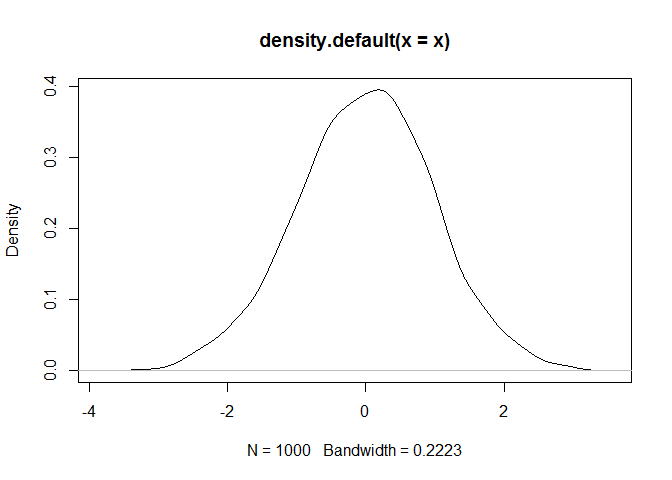
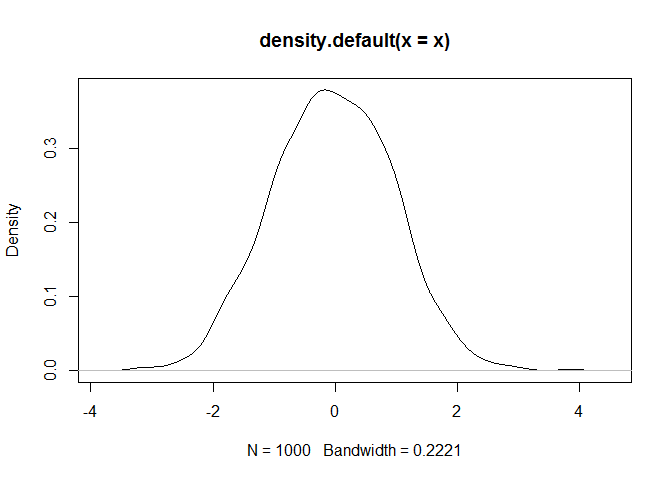
added 10

diff --git a/rmarkdownrocks.md b/rmarkdownrocks.md
@@ -15,7 +15,7 @@ x <- rnorm(1000)
 head(x)
 ```
 
-    ## [1]  0.89419948  1.00649348  0.71186303  1.37340767 -0.47541457  0.08897219
+    ## [1] -0.9009132 -0.9891018  0.8123826 -0.4574154 -0.2593997 -0.4908902
 
 Including Plots
 ---------------
